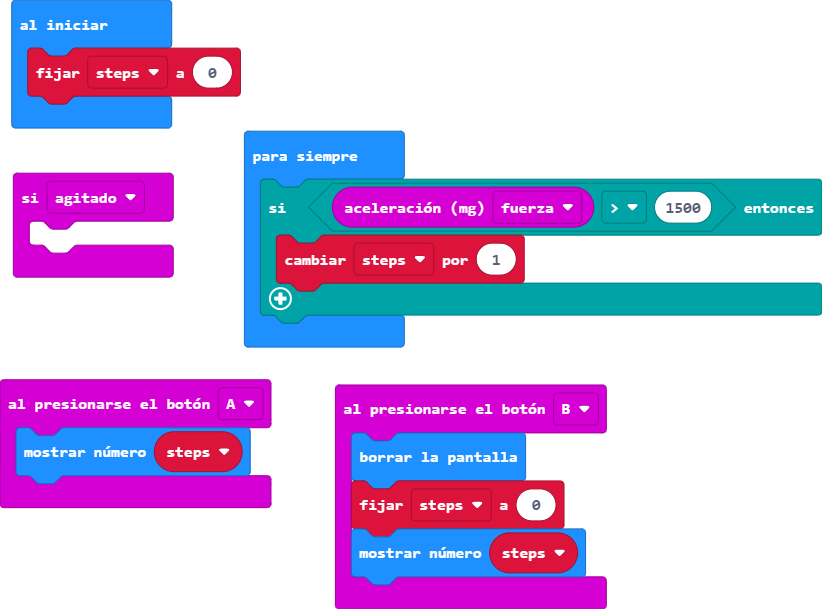
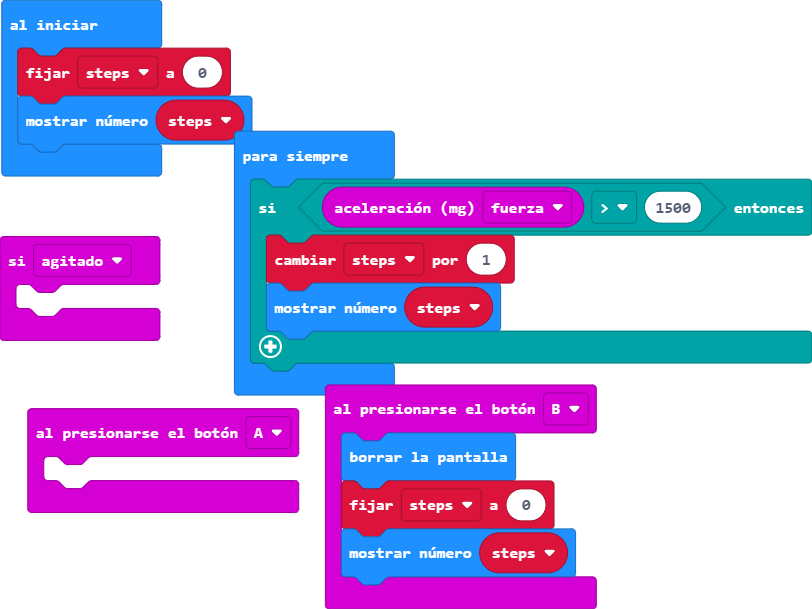
Actualizar main.blocks, main.ts

Changed region(s): [[0.0, 0.0, 1.0, 1.0], [0.9236, 0.312, 0.9544, 0.3744]]

diff --git a/main.ts b/main.ts
@@ -1,5 +1,5 @@
 input.onButtonPressed(Button.A, function () {
-    basic.showNumber(steps)
+	
 })
 input.onGesture(Gesture.Shake, function () {
 	
@@ -11,8 +11,10 @@ input.onButtonPressed(Button.B, function () {
 })
 let steps = 0
 steps = 0
+basic.showNumber(steps)
 basic.forever(function () {
     if (input.acceleration(Dimension.Strength) > 1500) {
         steps += 1
+        basic.showNumber(steps)
     }
 })
